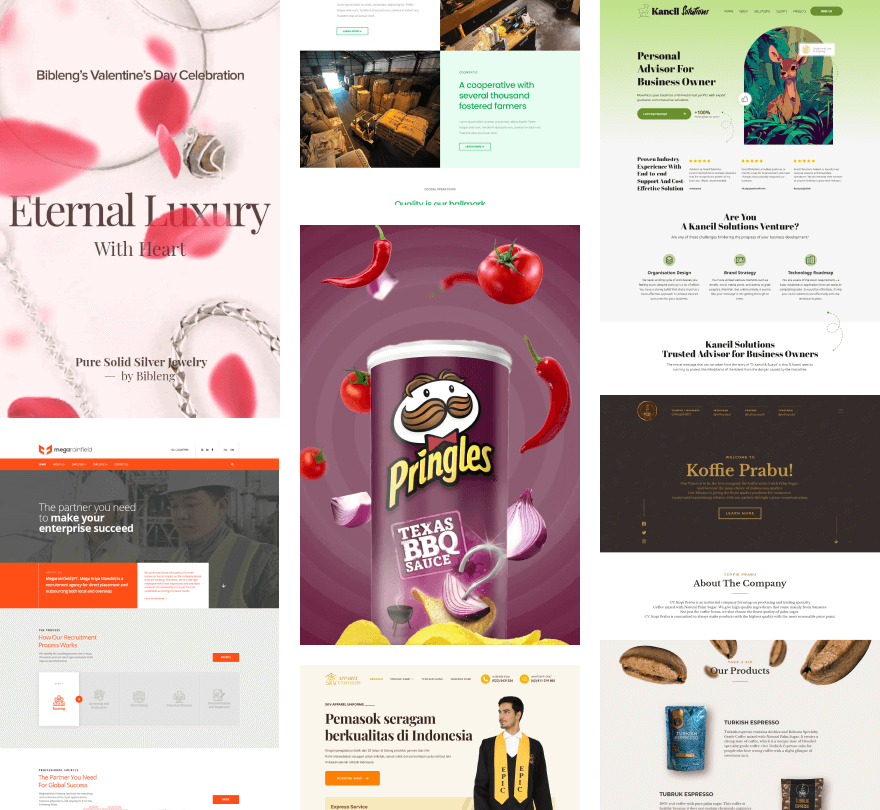
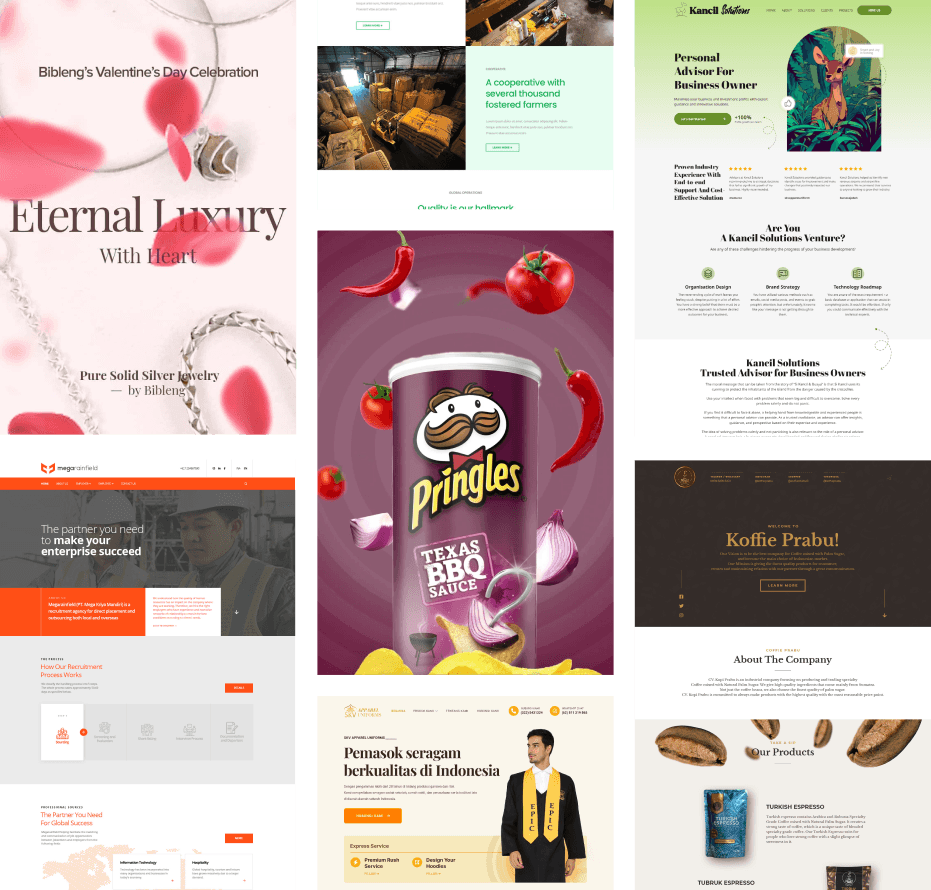
Update

diff --git a/index.html b/index.html
@@ -72,8 +72,8 @@
                                     <label class="menu-icon" for="menu-btn"><span class="navicon"></span></label>
                                     <ul class="menu">
                                         <li><a href="#works">Works</a></li>
-                                        <li><a href="#contact">Contact</a></li>
                                         <li><a href="#playground">Playground</a></li>
+                                        <li><a href="#contact">Contact</a></li>
                                     </ul>
                                 </nav>
                             </div>
@@ -84,7 +84,7 @@
                             <div class="row">
                                 <div class="column column-70 hero-text">
                                     <h1>Freelance designer services</h1>
-                                    <p class="animate-satu">Saya [Leo] Ari Wibowo. Freelance web designer, graphic designer, dan motion graphic designer yang siap menghidupkan ide-ide Anda dengan desain yang menarik dan dinamis.</p>
+                                    <p class="animate-satu">Saya [Leo] Ari Wibowo. Freelance web designer, graphic designer, dan motion graphic designer siap mewujudkan ide-ide Anda dengan desain yang menarik dan dinamis.</p>
                                     <div class="row services animate-dua">
                                         <div class="column">
                                             <h6>Web design</h6>
@@ -99,7 +99,7 @@
                                             <p>Iklan produk, Instagram reel, dll</p>
                                         </div>
                                     </div>
-                                    <a href="#contact" class="button button-large animate-tiga">Hubungi saya <i class="icon-right"></i></a>
+                                    <a href="#contact" class="button button-large animate-tiga">Pesan Sekarang <i class="icon-right"></i></a>
                                 </div>
                                 <div class="column column-50 hero-thumbnails">
                                     <img src="images/thumbnails.png" id="thumbnails" alt="">
@@ -167,12 +167,53 @@
                                         <span>Role : Web design</span>
                                     </div>
                                 </div>
-                                <div class="row klien">
-                                    <div class="column nama-klien split-me">
-                                       <h1><a href="#kancil">Kancil Solutions</a></h1>
-                                        <span>Role : Web design, graphic design, &amp; development</span>
-                                    </div>
-                                </div>
+                            </div>
+                        </div>
+                    </div>
+                </div>
+            </section>
+            
+            <section>
+                <div class="case-study bibleng-container">
+                    <div class="container">
+                        <div class="row">
+                            <div class="column column-50">
+                                <h6>CASE STUDY / 2021</h6>
+                                <h2>Bibleng's valentine's day Instagram promo</h2>
+                                <p class="desc">Desain promo Instagram menampilkan paduan warna romantis yang elegan dengan latar belakang pastel lembut. Tujuannya agar lebih bisa menonjolkan beragam perhiasan perak dari koleksi Bibleng yang melambangkan cinta yang abadi.</p>
+                                <p class="desc">Di latar depan, saya menyertakan tagline dengan typography elegan untuk menggambarkan inti dari Valentine's Day Bibleng: "Eternal Luxury With Heart". Tagline ini mengundang follower Instagram Bibleng untuk menjelajahi rangkaian koleksi perhiasan perak Bibleng dan menemukan hadiah yang sempurna untuk orang yang mereka cintai.</p>
+                            </div>
+                            <div class="column column-25 column-offset-25 tools">
+                                <p><strong>Tools :</strong> <br>Adobe Photoshop </p>
+                                <p><strong>Role :</strong> <br>Graphic design</p>
+                            </div>
+                        </div>
+                        <div class="row">
+                            <div class="column screenshot">
+                                <img src="images/bibleng.jpg" alt="">
+                            </div>
+                        </div>
+                    </div>
+                </div>
+            </section>
+            
+            <section>
+                <div class="case-study kancil-container">
+                    <div class="container">
+                        <div class="row">
+                            <div class="column column-50">
+                                <h6>CASE STUDY / 2023</h6>
+                                <h2>Kancil Solutions <br> web design &amp; development</h2>
+                                <p class="desc">Kancil Solutions merupakan perusahaan konsultan bisnis yang menerapkan pendekatan permasalahan terinspirasi oleh dongeng si kancil dan buaya. Seperti si kancil yang cerdik, Kancil Solutions menggunakan kecerdasan dan strategi untuk mencari solusi yang tepat guna bagi bisnis kliennya agar bisnis mereka dapat berkembang pesat.</p>
+                            </div>
+                            <div class="column column-25 column-offset-25 tools">
+                                <p><strong>Tools :</strong> <br>Figma <br>Adobe Photoshop <br>WordPress <br>Microsoft Designer </p>
+                                <p><strong>Role :</strong> <br>Web design<br>Graphic design<br>Web development</p>
+                            </div>
+                        </div>
+                        <div class="row">
+                            <div class="column screenshot">
+                                <img src="images/kancil-solutions.jpg" alt="">
                             </div>
                         </div>
                     </div>

diff --git a/css/app.css b/css/app.css
@@ -44,7 +44,7 @@ a:hover {
 
 .circle {
     position: fixed;
-    background-color: #fff;
+    background-color: #006cff;
     width: 10px;
     height: 10px;
     left: -10px;
@@ -57,11 +57,11 @@ a:hover {
 
 .circle-follow {
     position: fixed;
-    border: 1px solid #fff;
+    border: 1px solid #006cff;
     width: 30px;
     height: 30px;
-    left: -21px;
-    top: -21px;
+    left: -20px;
+    top: -20px;
     border-radius: 100%;
     z-index: 1;
     user-select: none;
@@ -139,10 +139,11 @@ a:hover {
 
 .site-logo {
     display: inline-block;
+    width: 80px;
 }
 
 .navbar {
-    margin: 10px 0 0 30px;
+    margin: 20px 0 0 30px;
     display: inline-block;
 }
 
@@ -165,7 +166,7 @@ a:hover {
 }
 
 .hero-text h1 {
-    font-size: 74px;
+    font-size: 60px;
 }
 
 .hero-text h1 > div {
@@ -175,6 +176,11 @@ a:hover {
 
 .split-me .line-wrapper {
     overflow: hidden;
+}
+
+.animate-satu {
+    font-size: 20px;
+    margin-bottom: 40px;
 }
 
 .animate-satu,
@@ -189,7 +195,7 @@ a:hover {
 }
 
 .services p {
-    font-size: 14px;
+    font-size: 16px;
 }
 
 .button-large {
@@ -218,6 +224,7 @@ a:hover {
 .lines {
     display: none;
 }
+
 .works {
     padding: 80px 0;
 }
@@ -248,6 +255,41 @@ a:hover {
     font-size: 12px;
     font-weight: 600;
     text-transform: uppercase;
+}
+
+.bibleng-container {
+    background: #FFF4F5;
+    padding: 80px 0;
+}
+
+.kancil-container {
+    background: #ebebeb;
+    padding: 80px 0;
+}
+
+.case-study h2,
+.case-study h6,
+.case-study p {
+    color: #020916;
+}
+
+.case-study h6 {
+    letter-spacing: 3px;
+    margin-left: 4px
+}
+
+.case-study h2 {
+    margin-top: 30px;
+    font-size: 60px;
+    margin-bottom: 40px;
+}
+
+.case-study p.desc {
+    font-size: 20px
+}
+
+.screenshot {
+    margin-top: 20px;
 }
 
 
@@ -307,10 +349,12 @@ input:-webkit-autofill:active {
     padding-bottom: 80px;
     border-top: 1px dashed #4C657D;
 }
+
 .footer .logo-renea-studio {
     top: 10px;
     position: relative
 }
+
 .footer > .row {
     align-items: center;
 }
@@ -338,14 +382,16 @@ input:-webkit-autofill:active {
 @media (max-width: 39.9rem) {
 
     .row .column.column-20,
+    .row .column.column-25,
     .row .column.column-40,
+    .row .column.column-50,
     .row .column.column-60,
     .row .column.column-80 {
         flex: 0 0 100%;
         max-width: 100%;
     }
 
-    .row .column.column-offset-20 {
+    .row .column.column-offset-20, .row .column.column-offset-25 {
         margin-left: 0;
     }
 
@@ -361,6 +407,7 @@ input:-webkit-autofill:active {
     .header-bar .navbar {
         position: absolute;
         right: 0;
+        top: 0;
         width: 100%;
     }
 
@@ -374,6 +421,8 @@ input:-webkit-autofill:active {
         list-style: none;
         overflow: hidden;
         background: #020916;
+        position: relative;
+        top: -20px;
     }
 
     .header-bar li a {
@@ -468,8 +517,8 @@ input:-webkit-autofill:active {
     #thumbnails {
         display: inherit;
         position: absolute;
-        width: 880px;
-        height: 810px;
+        width: 931px;
+        height: 890px;
         left: 58%;
         bottom: 0;
     }
@@ -494,27 +543,45 @@ input:-webkit-autofill:active {
 
     .navbar ul li {
         display: inline-block;
+    }    
+
+    .site-logo {
+        width: 123px;
+        height: auto;
     }
-    
+
+    .hero-text h1 {
+        font-size: 76px;
+        letter-spacing: -3px;
+    }
+
     .arrow-satu {
         float: right;
         margin-right: 60px;
     }
-    
+
     .arrow-dua {
         display: inline-block;
     }
-    
+
     .contact-container {
         padding-top: 20px;
     }
-    
+
     .contact-desc {
-        margin-top: 60px
+        margin-top: 80px
     }
-    
+
     .copyright {
         text-align: right;
         margin-top: 0;
+    }
+
+    .tools {
+        margin-top: 50px;
+    }
+    
+    .screenshot {
+        margin-top: 80px;
     }
 }

diff --git a/css/normalize.css b/css/normalize.css
@@ -94,7 +94,7 @@ abbr[title] {
 
 b,
 strong {
-  font-weight: bolder;
+  font-weight: bold;
 }
 
 /**
